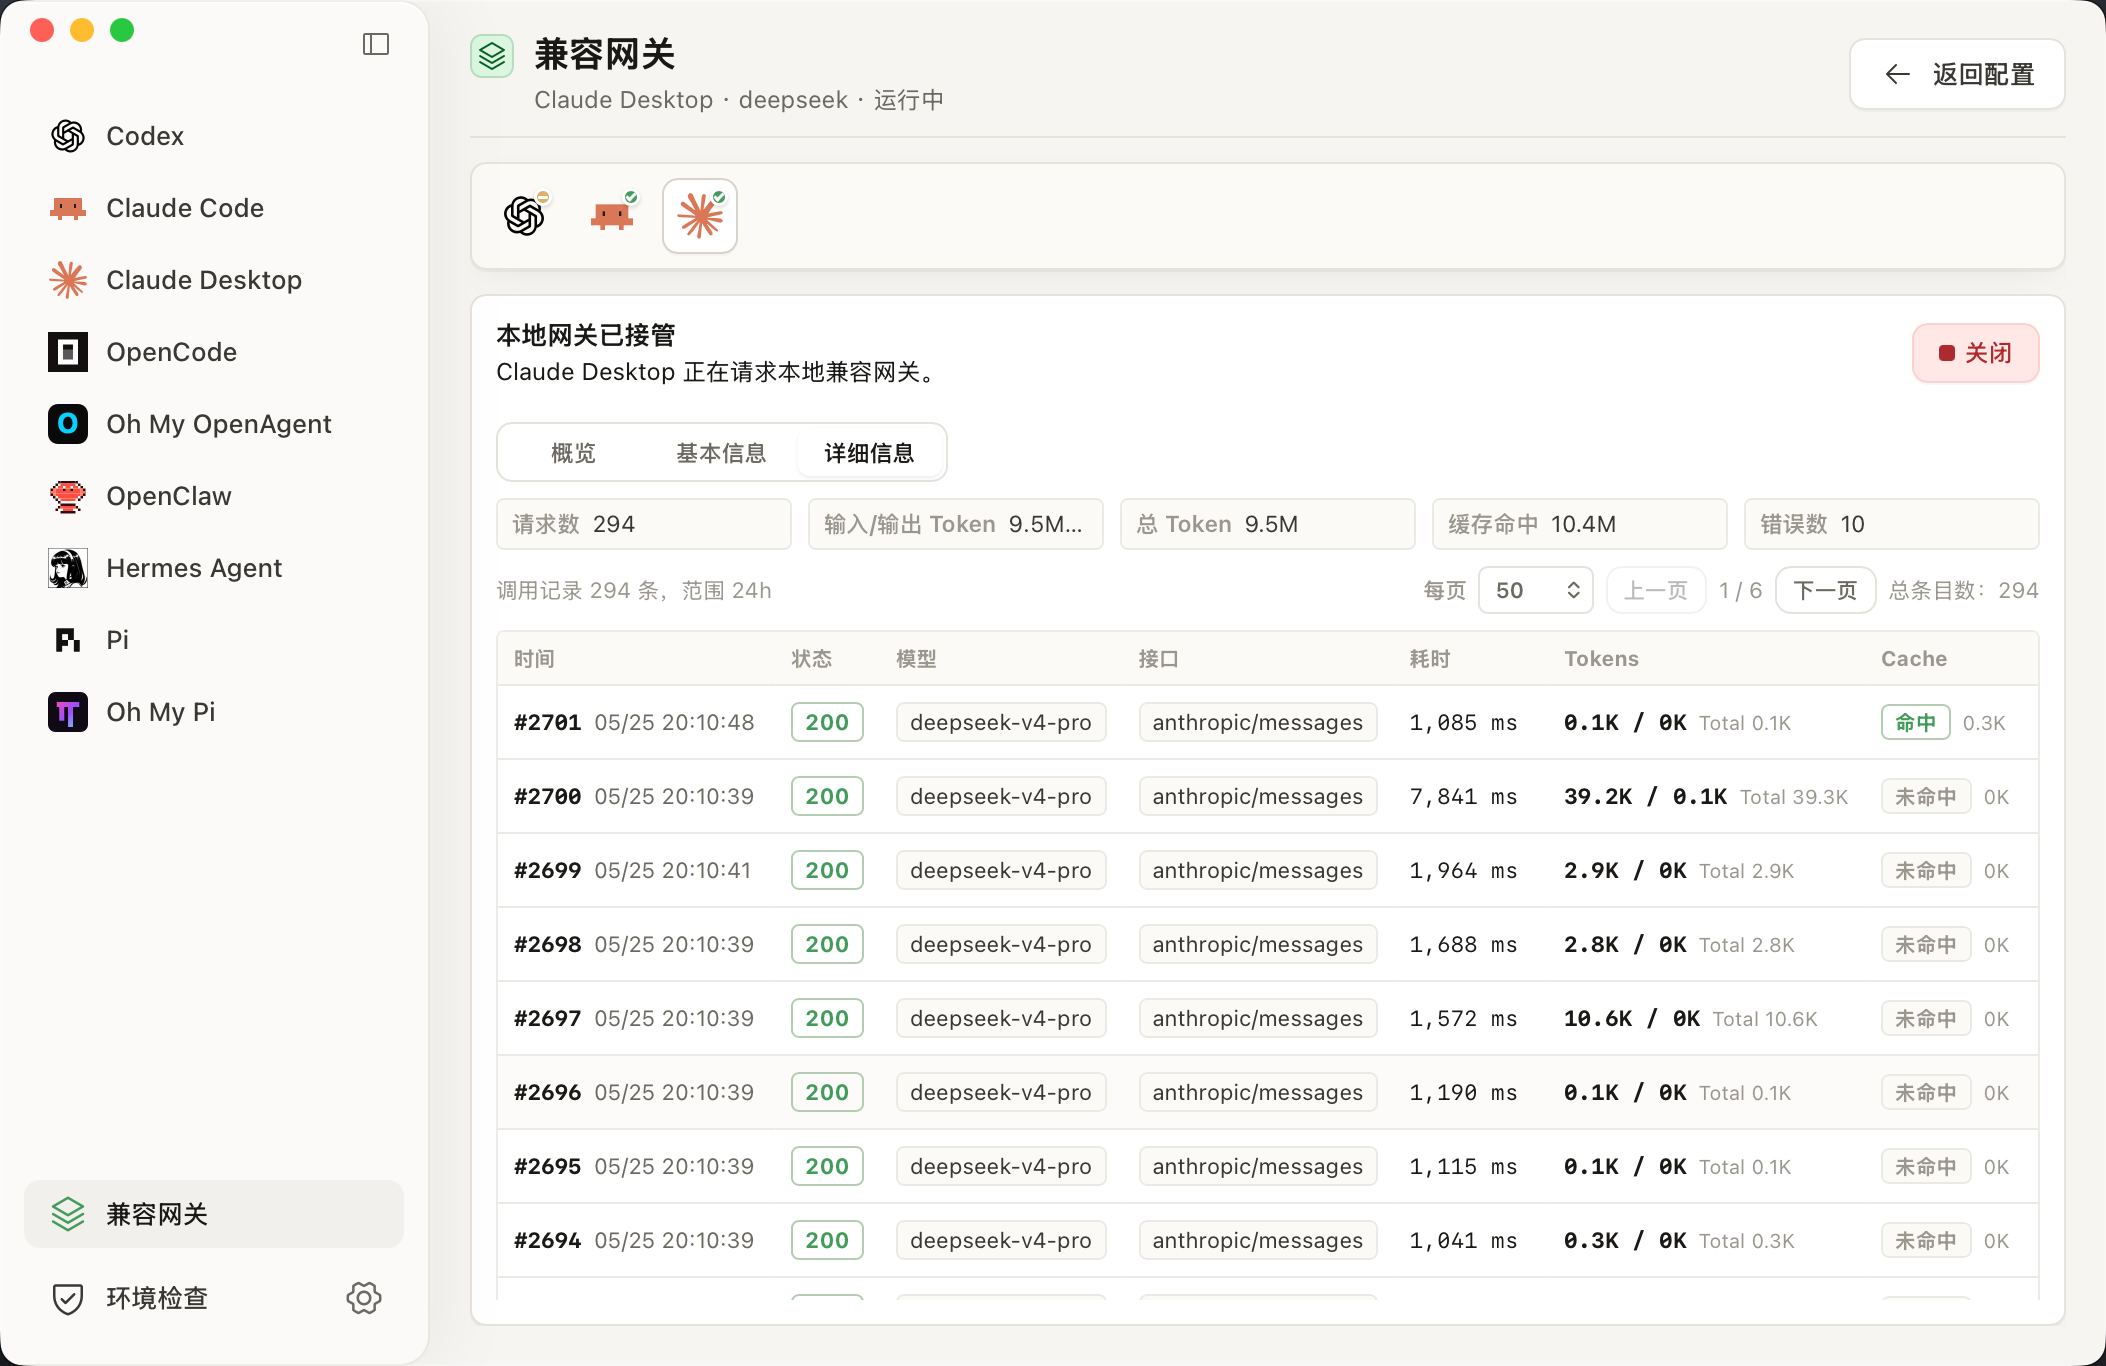
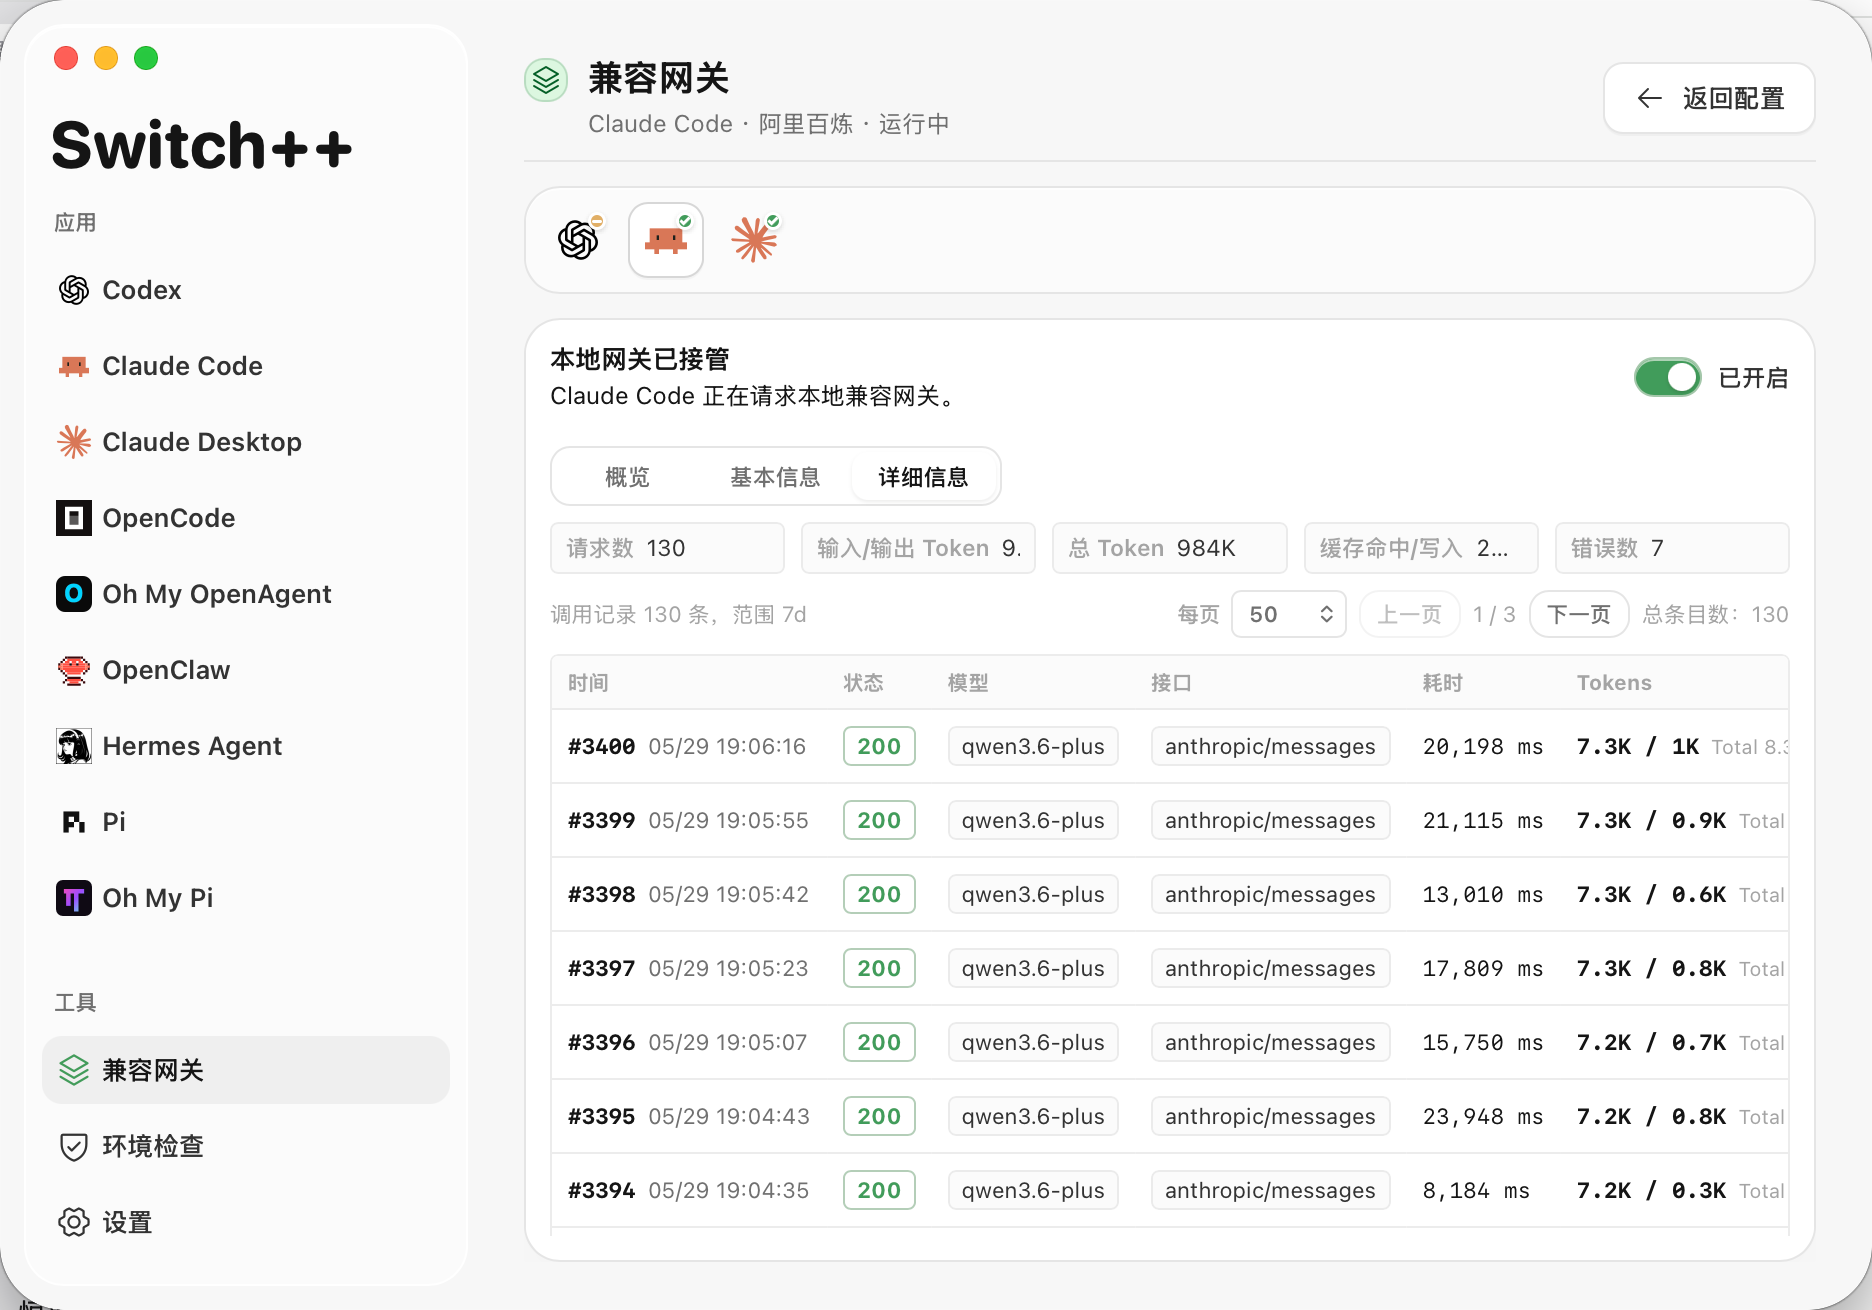
Refresh release screenshots in docs

diff --git a/docs/index.html b/docs/index.html
@@ -426,10 +426,6 @@
         <div class="lang-block" data-lang="zh">
           <div class="screenshot-grid">
             <figure class="screenshot-card featured">
-              <img src="assets/screenshots/switchpp-codex-desktop-deepseek.png" alt="Codex Desktop 使用 DeepSeek 三方模型" loading="lazy" />
-              <figcaption>Codex Desktop 使用 DeepSeek 三方模型</figcaption>
-            </figure>
-            <figure class="screenshot-card">
               <img src="assets/screenshots/switchpp-codex-profiles.png" alt="Codex 配置列表" loading="lazy" />
               <figcaption>Codex 配置列表</figcaption>
             </figure>
@@ -438,12 +434,8 @@
               <figcaption>新增 Codex 配置</figcaption>
             </figure>
             <figure class="screenshot-card">
-              <img src="assets/screenshots/switchpp-claude-desktop-profiles.png" alt="Claude Desktop 配置切换" loading="lazy" />
-              <figcaption>Claude Desktop 配置切换</figcaption>
-            </figure>
-            <figure class="screenshot-card">
-              <img src="assets/screenshots/switchpp-environment-check.png" alt="本地环境检查" loading="lazy" />
-              <figcaption>本地环境检查</figcaption>
+              <img src="assets/screenshots/switchpp-claude-code-profiles.png" alt="Claude Code 配置列表" loading="lazy" />
+              <figcaption>Claude Code 配置列表</figcaption>
             </figure>
             <figure class="screenshot-card">
               <img src="assets/screenshots/switchpp-gateway-overview.png" alt="兼容网关概览" loading="lazy" />
@@ -454,22 +446,14 @@
               <figcaption>兼容网关调用记录</figcaption>
             </figure>
             <figure class="screenshot-card">
-              <img src="assets/screenshots/switchpp-claude-model-menu.png" alt="Claude Desktop 模型菜单" loading="lazy" />
-              <figcaption>Claude Desktop 模型菜单</figcaption>
-            </figure>
-            <figure class="screenshot-card">
-              <img src="assets/screenshots/switchpp-claude-gateway-chat.png" alt="Claude Desktop 经由本地网关响应" loading="lazy" />
-              <figcaption>Claude Desktop 经由本地网关响应</figcaption>
+              <img src="assets/screenshots/switchpp-environment-check.png" alt="本地环境检查" loading="lazy" />
+              <figcaption>本地环境检查</figcaption>
             </figure>
           </div>
         </div>
         <div class="lang-block" data-lang="en">
           <div class="screenshot-grid">
             <figure class="screenshot-card featured">
-              <img src="assets/screenshots/switchpp-codex-desktop-deepseek.png" alt="Codex Desktop with a DeepSeek third-party model" loading="lazy" />
-              <figcaption>Codex Desktop with a DeepSeek third-party model</figcaption>
-            </figure>
-            <figure class="screenshot-card">
               <img src="assets/screenshots/switchpp-codex-profiles.png" alt="Codex profiles" loading="lazy" />
               <figcaption>Codex profiles</figcaption>
             </figure>
@@ -478,12 +462,8 @@
               <figcaption>New Codex profile</figcaption>
             </figure>
             <figure class="screenshot-card">
-              <img src="assets/screenshots/switchpp-claude-desktop-profiles.png" alt="Claude Desktop profiles" loading="lazy" />
-              <figcaption>Claude Desktop profiles</figcaption>
-            </figure>
-            <figure class="screenshot-card">
-              <img src="assets/screenshots/switchpp-environment-check.png" alt="Environment check" loading="lazy" />
-              <figcaption>Environment check</figcaption>
+              <img src="assets/screenshots/switchpp-claude-code-profiles.png" alt="Claude Code profiles" loading="lazy" />
+              <figcaption>Claude Code profiles</figcaption>
             </figure>
             <figure class="screenshot-card">
               <img src="assets/screenshots/switchpp-gateway-overview.png" alt="Gateway overview" loading="lazy" />
@@ -494,12 +474,8 @@
               <figcaption>Gateway request history</figcaption>
             </figure>
             <figure class="screenshot-card">
-              <img src="assets/screenshots/switchpp-claude-model-menu.png" alt="Claude Desktop model menu" loading="lazy" />
-              <figcaption>Claude Desktop model menu</figcaption>
-            </figure>
-            <figure class="screenshot-card">
-              <img src="assets/screenshots/switchpp-claude-gateway-chat.png" alt="Claude Desktop through local gateway" loading="lazy" />
-              <figcaption>Claude Desktop through local gateway</figcaption>
+              <img src="assets/screenshots/switchpp-environment-check.png" alt="Environment check" loading="lazy" />
+              <figcaption>Environment check</figcaption>
             </figure>
           </div>
         </div>

diff --git a/README.md b/README.md
@@ -46,25 +46,29 @@ Switch++ 不只是一个 provider 切换器，而是面向 Claude / Codex 桌面
 
 ### 界面预览 / Screenshots
 
-**Codex Desktop 使用 DeepSeek 三方模型 / Codex Desktop with a DeepSeek third-party model**
+**Codex 配置列表 / Codex profiles**
 
-![Codex Desktop 使用 DeepSeek 三方模型](docs/assets/screenshots/switchpp-codex-desktop-deepseek.png)
+![Codex 配置列表](docs/assets/screenshots/switchpp-codex-profiles.png)
 
-| Codex 配置列表 / Codex profiles | 新增 Codex 配置 / New Codex profile |
-| --- | --- |
-| ![Codex 配置列表](docs/assets/screenshots/switchpp-codex-profiles.png) | ![新增 Codex 配置](docs/assets/screenshots/switchpp-codex-new-profile.png) |
+**新增 Codex 配置 / New Codex profile**
 
-| Claude Desktop 配置切换 / Claude Desktop profiles | 本地环境检查 / Environment check |
-| --- | --- |
-| ![Claude Desktop 配置切换](docs/assets/screenshots/switchpp-claude-desktop-profiles.png) | ![本地环境检查](docs/assets/screenshots/switchpp-environment-check.png) |
+![新增 Codex 配置](docs/assets/screenshots/switchpp-codex-new-profile.png)
 
-| 兼容网关概览 / Gateway overview | 兼容网关调用记录 / Gateway request history |
-| --- | --- |
-| ![兼容网关概览](docs/assets/screenshots/switchpp-gateway-overview.png) | ![兼容网关调用记录](docs/assets/screenshots/switchpp-gateway-requests.png) |
+**Claude Code 配置列表 / Claude Code profiles**
 
-| Claude Desktop 模型菜单 / Claude Desktop model menu | Claude Desktop 经由本地网关响应 / Claude Desktop through local gateway |
-| --- | --- |
-| ![Claude Desktop 模型菜单](docs/assets/screenshots/switchpp-claude-model-menu.png) | ![Claude Desktop 经由本地网关响应](docs/assets/screenshots/switchpp-claude-gateway-chat.png) |
+![Claude Code 配置列表](docs/assets/screenshots/switchpp-claude-code-profiles.png)
+
+**兼容网关概览 / Gateway overview**
+
+![兼容网关概览](docs/assets/screenshots/switchpp-gateway-overview.png)
+
+**兼容网关调用记录 / Gateway request history**
+
+![兼容网关调用记录](docs/assets/screenshots/switchpp-gateway-requests.png)
+
+**本地环境检查 / Environment check**
+
+![本地环境检查](docs/assets/screenshots/switchpp-environment-check.png)
 
 ### 适用场景
 